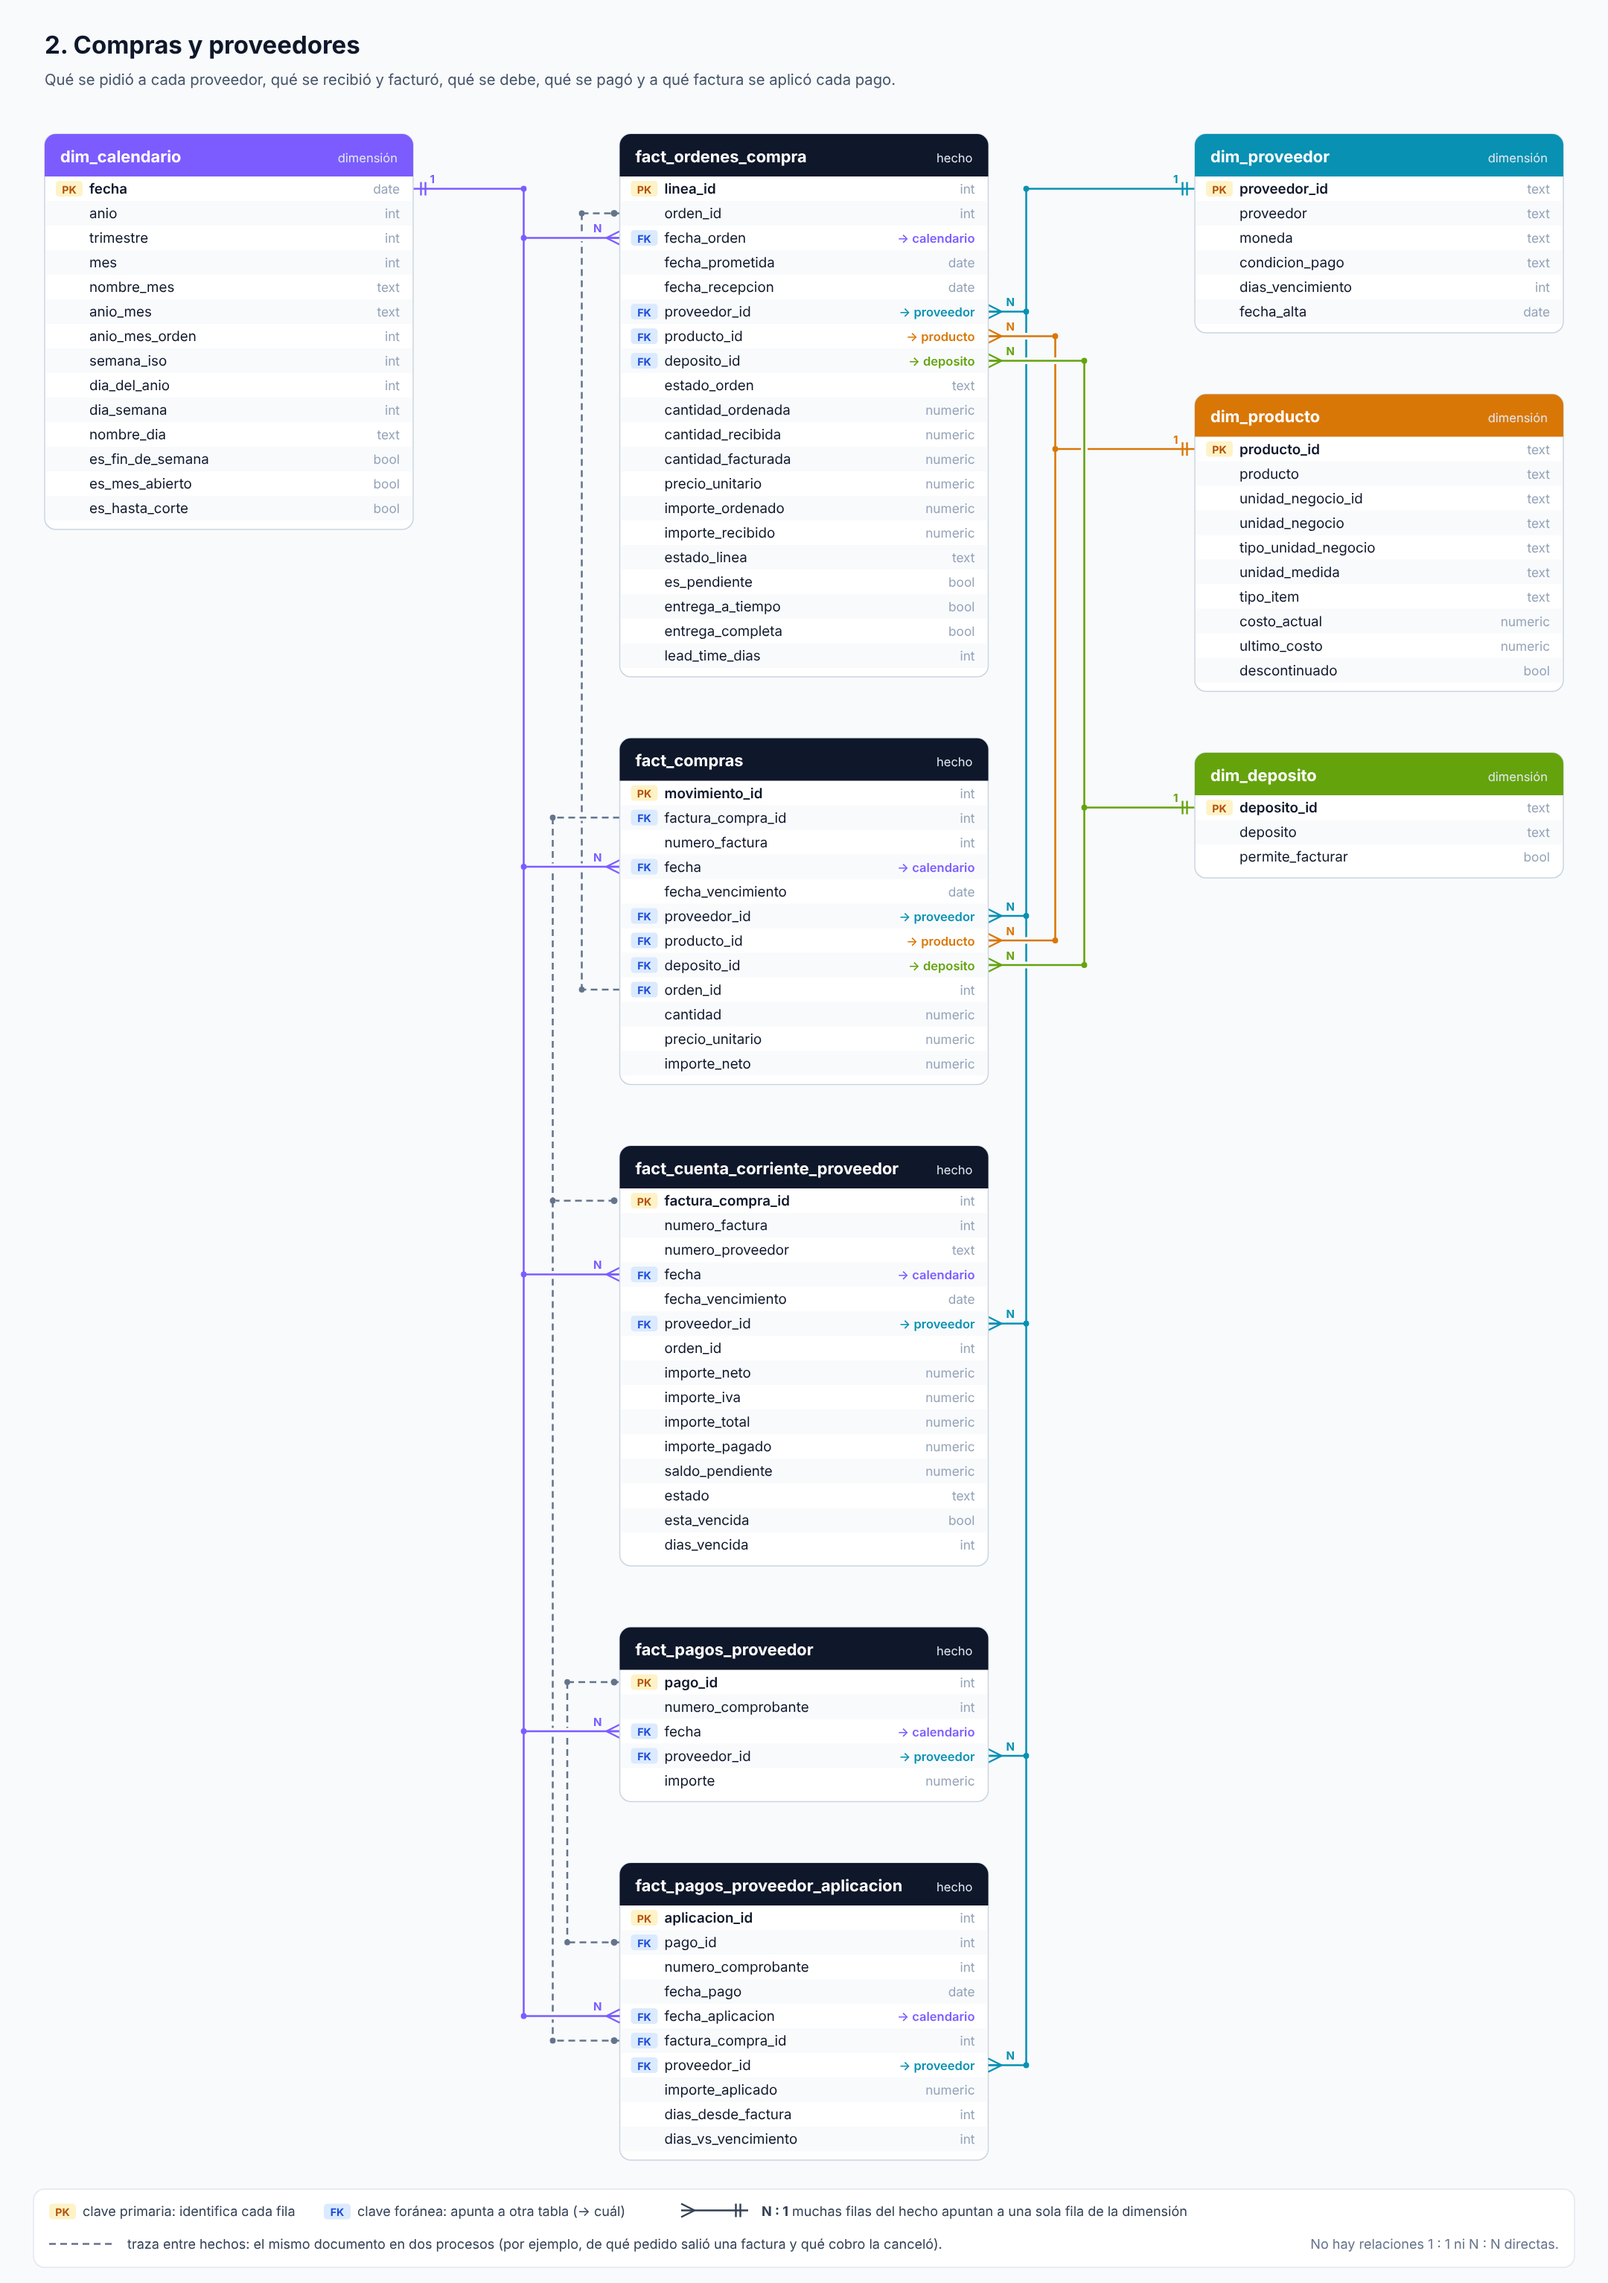
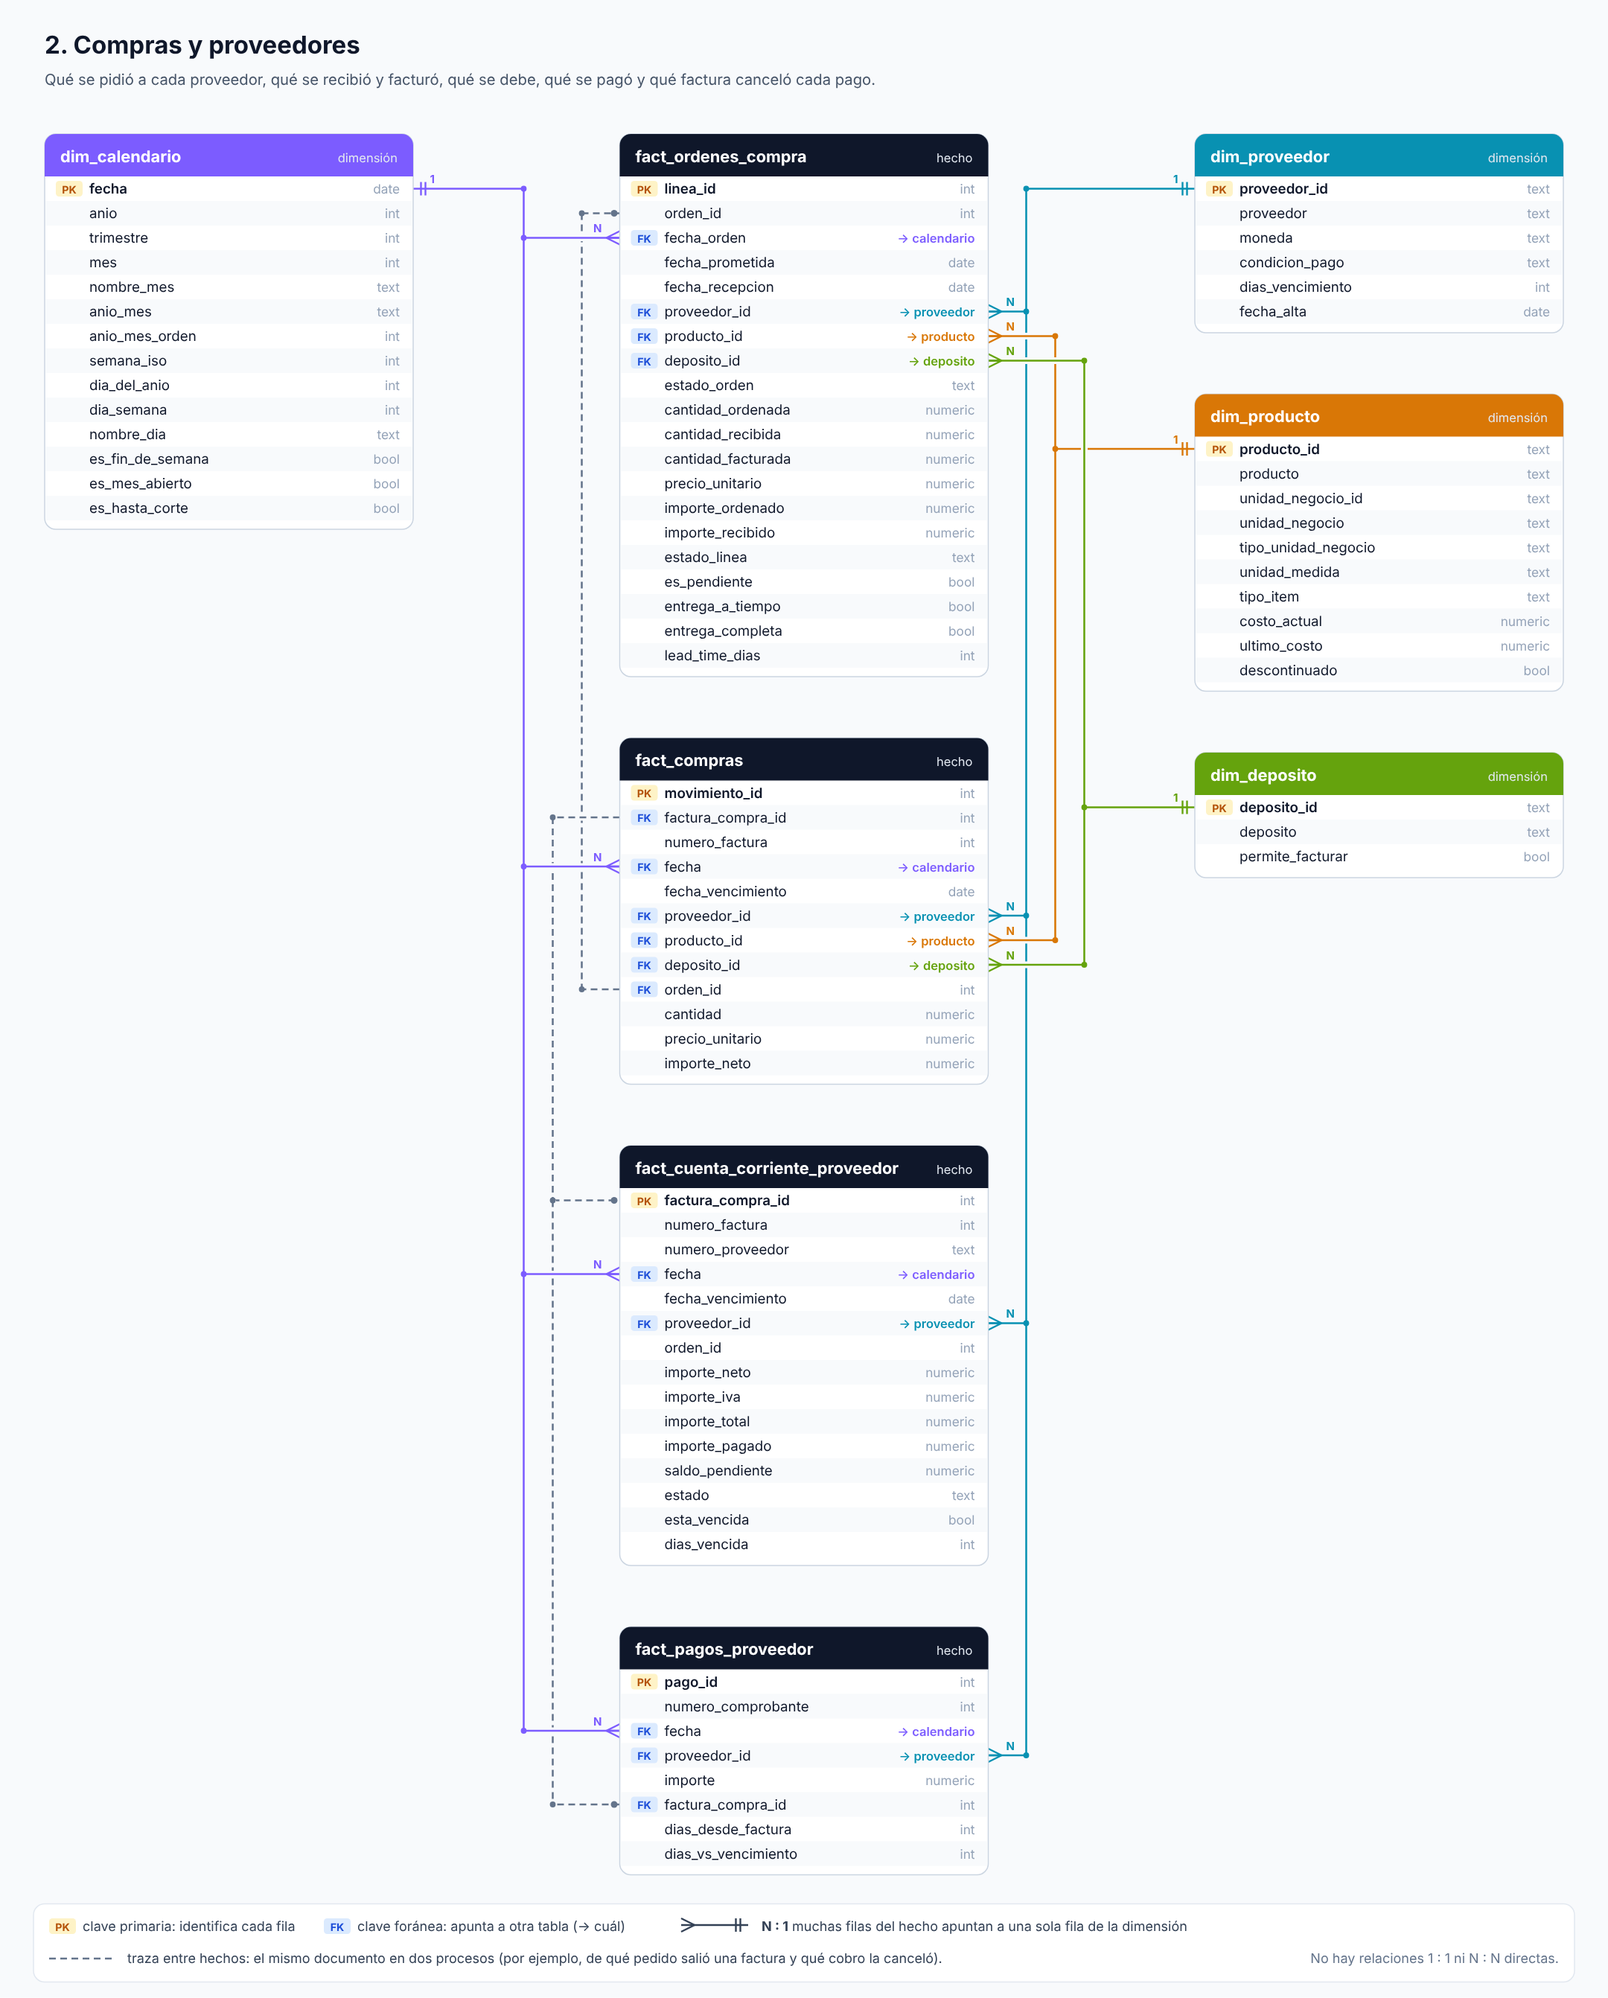
Modelo: fact_pagos_proveedor guarda la factura que canceló cada pago (sin tabla de hechos aparte)
Claude-Session: https://claude.ai/code/session_01BerP5tpH3fTpPqyTaaGzu5

diff --git a/docs/modelo_datos.md b/docs/modelo_datos.md
@@ -4,7 +4,7 @@
 
 El warehouse está modelado en **estrella** (modelo dimensional de Kimball):
 
-- **Hechos:** lo que pasa en el negocio y se puede medir. Una venta, un cobro, una compra, un movimiento de stock, un asiento contable. Hay 13.
+- **Hechos:** lo que pasa en el negocio y se puede medir. Una venta, un cobro, una compra, un movimiento de stock, un asiento contable. Hay 12.
 - **Dimensiones:** desde dónde se mira lo que pasó. Cuándo (calendario), a quién (cliente), qué (producto), por dónde (canal), quién vendió (vendedor), desde dónde (depósito), a quién se compró (proveedor) y en qué cuenta contable. Hay 8.
 
 Las 8 dimensiones son **compartidas**: el mismo cliente de una venta es el mismo cliente de un cobro. Por eso se puede cruzar "cuánto le vendí" con "cuánto me pagó" sin conciliar a mano.
@@ -13,7 +13,7 @@ Las 8 dimensiones son **compartidas**: el mismo cliente de una venta es el mismo
 
 ![Modelo estrella de ventas](modelo_estrella_ventas.png)
 
-`fact_ventas` es el centro del modelo: una fila por cada línea de factura, conectada a sus seis dimensiones. Los otros doce hechos siguen la misma lógica.
+`fact_ventas` es el centro del modelo: una fila por cada línea de factura, conectada a sus seis dimensiones. Los otros once hechos siguen la misma lógica.
 
 ## El modelo completo, por área
 
@@ -38,7 +38,7 @@ Juntar todo en una sola tabla duplicaría importes al sumar. Las cuatro se cruza
 
 ### 2. Compras y proveedores
 
-Qué se pidió a cada proveedor, qué se recibió y facturó, qué se debe, qué se pagó y a qué factura se aplicó cada pago.
+Qué se pidió a cada proveedor, qué se recibió y facturó, qué se debe, qué se pagó y qué factura canceló cada pago.
 
 ![Compras y proveedores](modelo_2_compras_proveedores.png)
 
@@ -47,8 +47,7 @@ Qué se pidió a cada proveedor, qué se recibió y facturó, qué se debe, qué
 - **`fact_ordenes_compra`, por línea de orden de compra:** compara lo pedido al proveedor con lo recibido y la fecha prometida con la de llegada.
 - **`fact_compras`, por línea de factura de compra:** cuánto se compró, a quién y a qué precio, por producto.
 - **`fact_cuenta_corriente_proveedor`, por factura de compra:** la deuda nace y se cancela por factura. Cada una tiene su vencimiento y su saldo, y la fila se actualiza con cada pago.
-- **`fact_pagos_proveedor`, por pago:** cada transferencia o cheque, con su fecha e importe.
-- **`fact_pagos_proveedor_aplicacion`, por pago aplicado a una factura:** qué factura canceló cada pago y cuántos días después del vencimiento se pagó. Un pago puede cancelar varias facturas y una factura se puede pagar en partes. Es el mismo diseño que `fact_cobranzas` del lado de clientes.
+- **`fact_pagos_proveedor`, por pago:** cada transferencia o cheque, con su fecha, su importe, la factura que canceló y cuántos días después de la factura y del vencimiento se pagó. En los datos cada pago cancela una sola factura (algunas facturas se pagan en partes), así que alcanza con guardar la factura en la misma fila.
 
 Las tablas se cruzan por las dimensiones que comparten (proveedor, calendario, producto). El producto es el mismo que en ventas, así que se puede comparar el costo de compra con el precio de venta. El número de documento permite seguir una compra desde la orden hasta el pago.
 
@@ -77,8 +76,7 @@ La decisión más importante de un hecho es su **grano**: qué es exactamente un
 | `fact_ordenes_compra` | Una línea de orden de compra | Acumulativo | No se usa |
 | `fact_compras` | Una línea de factura de compra | Transaccional | No se usa |
 | `fact_cuenta_corriente_proveedor` | Una factura de compra, con lo pagado y lo que falta | Acumulativo | Días de pago, a pagar en 30 días, detalle de proveedores |
-| `fact_pagos_proveedor` | Un pago a un proveedor | Transaccional | Días de pago |
-| `fact_pagos_proveedor_aplicacion` | La aplicación de un pago a una factura de compra | Transaccional | No se usa (permite medir con qué pago se canceló cada factura y con cuánto atraso) |
+| `fact_pagos_proveedor` | Un pago a un proveedor, con la factura que canceló | Transaccional | Días de pago |
 | `fact_stock_movimiento` | Una entrada o salida de stock | Transaccional | No se usa (el stock sale de la foto de cierre) |
 | `fact_stock_saldo` | Producto × depósito × fecha de cierre | Foto periódica | Días de stock, mercadería que sobra y que falta |
 | `fact_mayor` | Una línea de asiento contable | Transaccional | Estado de resultados, márgenes, punto de equilibrio, caja y bancos |
@@ -102,7 +100,6 @@ Qué dimensiones usa cada hecho. Es la forma rápida de ver qué preguntas se pu
 | `fact_compras` | ● | | ● | | | ● | ● | |
 | `fact_cuenta_corriente_proveedor` | ● | | | | | | ● | |
 | `fact_pagos_proveedor` | ● | | | | | | ● | |
-| `fact_pagos_proveedor_aplicacion` | ● | | | | | | ● | |
 | `fact_stock_movimiento` | ● | ● | ● | | | ● | | |
 | `fact_stock_saldo` | ● | | ● | | | ● | | |
 | `fact_mayor` | ● | | | | | | | ● |

diff --git a/README.md b/README.md
@@ -18,7 +18,7 @@ El dueño de una pyme distribuidora tiene los datos en el ERP, pero no las respu
 | --- | --- | --- |
 | ERP | webERP en Docker con 23 meses de operación simulada (octubre 2024 a agosto 2026): 88.540 líneas de venta, 123 clientes, 1.460 productos y 15 proveedores, con contabilidad por partida doble | MariaDB, Docker, Python |
 | Extracción y carga | Las 145 tablas del ERP y la inflación (INDEC) y el dólar MEP desde APIs públicas | Python, pandas, SQLAlchemy |
-| Data warehouse | Capas `raw` → `staging` → `marts` → `kpi`, con un modelo dimensional de 13 hechos y 8 dimensiones | PostgreSQL (Supabase) |
+| Data warehouse | Capas `raw` → `staging` → `marts` → `kpi`, con un modelo dimensional de 12 hechos y 8 dimensiones | PostgreSQL (Supabase) |
 | Calidad de datos | 63 controles en cuatro ejes (aprovechamiento, cobertura, frescura y veracidad) que avisan qué tan confiable es cada dato | SQL |
 | Tablero | Cuatro pestañas para el dueño, con el mes de agosto 2026, en pesos de hoy o en dólares MEP | HTML, JavaScript, Chart.js |
 
